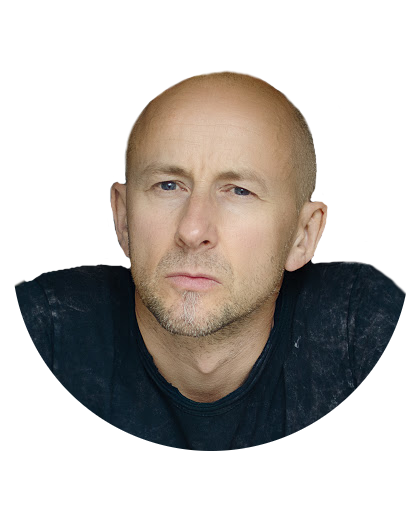
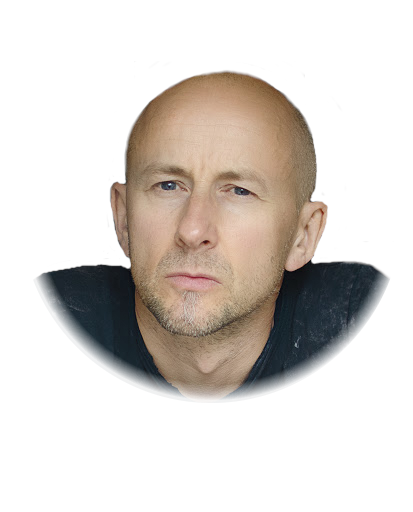
Circle image

Changed region(s): [[0.0291, 0.5312, 0.9879, 0.9062]]

diff --git a/src/components/page-layout.css b/src/components/page-layout.css
@@ -147,6 +147,15 @@ li a {
   align-self: center;
   max-width: 400px;
 }
+
+.top-container .box-image img {
+  box-sizing: border-box;
+  background-clip: padding-box;
+  background-color: white;
+  border-radius: 50%;
+  box-shadow: inset 0px 0px 35px 12px rgba(0, 0, 0, 0.5);
+}
+
 .top-container .box {
   flex: 8 1 400px;
   margin: 20px;

diff --git a/src/pages/index.js b/src/pages/index.js
@@ -76,7 +76,7 @@ export const fluidImage = graphql`
 
 export const pageQuery = graphql`
   query {
-    imageMorgan: file(relativePath: { eq: "morgan-radial.png" }) {
+    imageMorgan: file(relativePath: { eq: "morgan-square.png" }) {
       ...fluidImage
     }
     imageMorganBackground: file(relativePath: { eq: "desk.png" }) {
